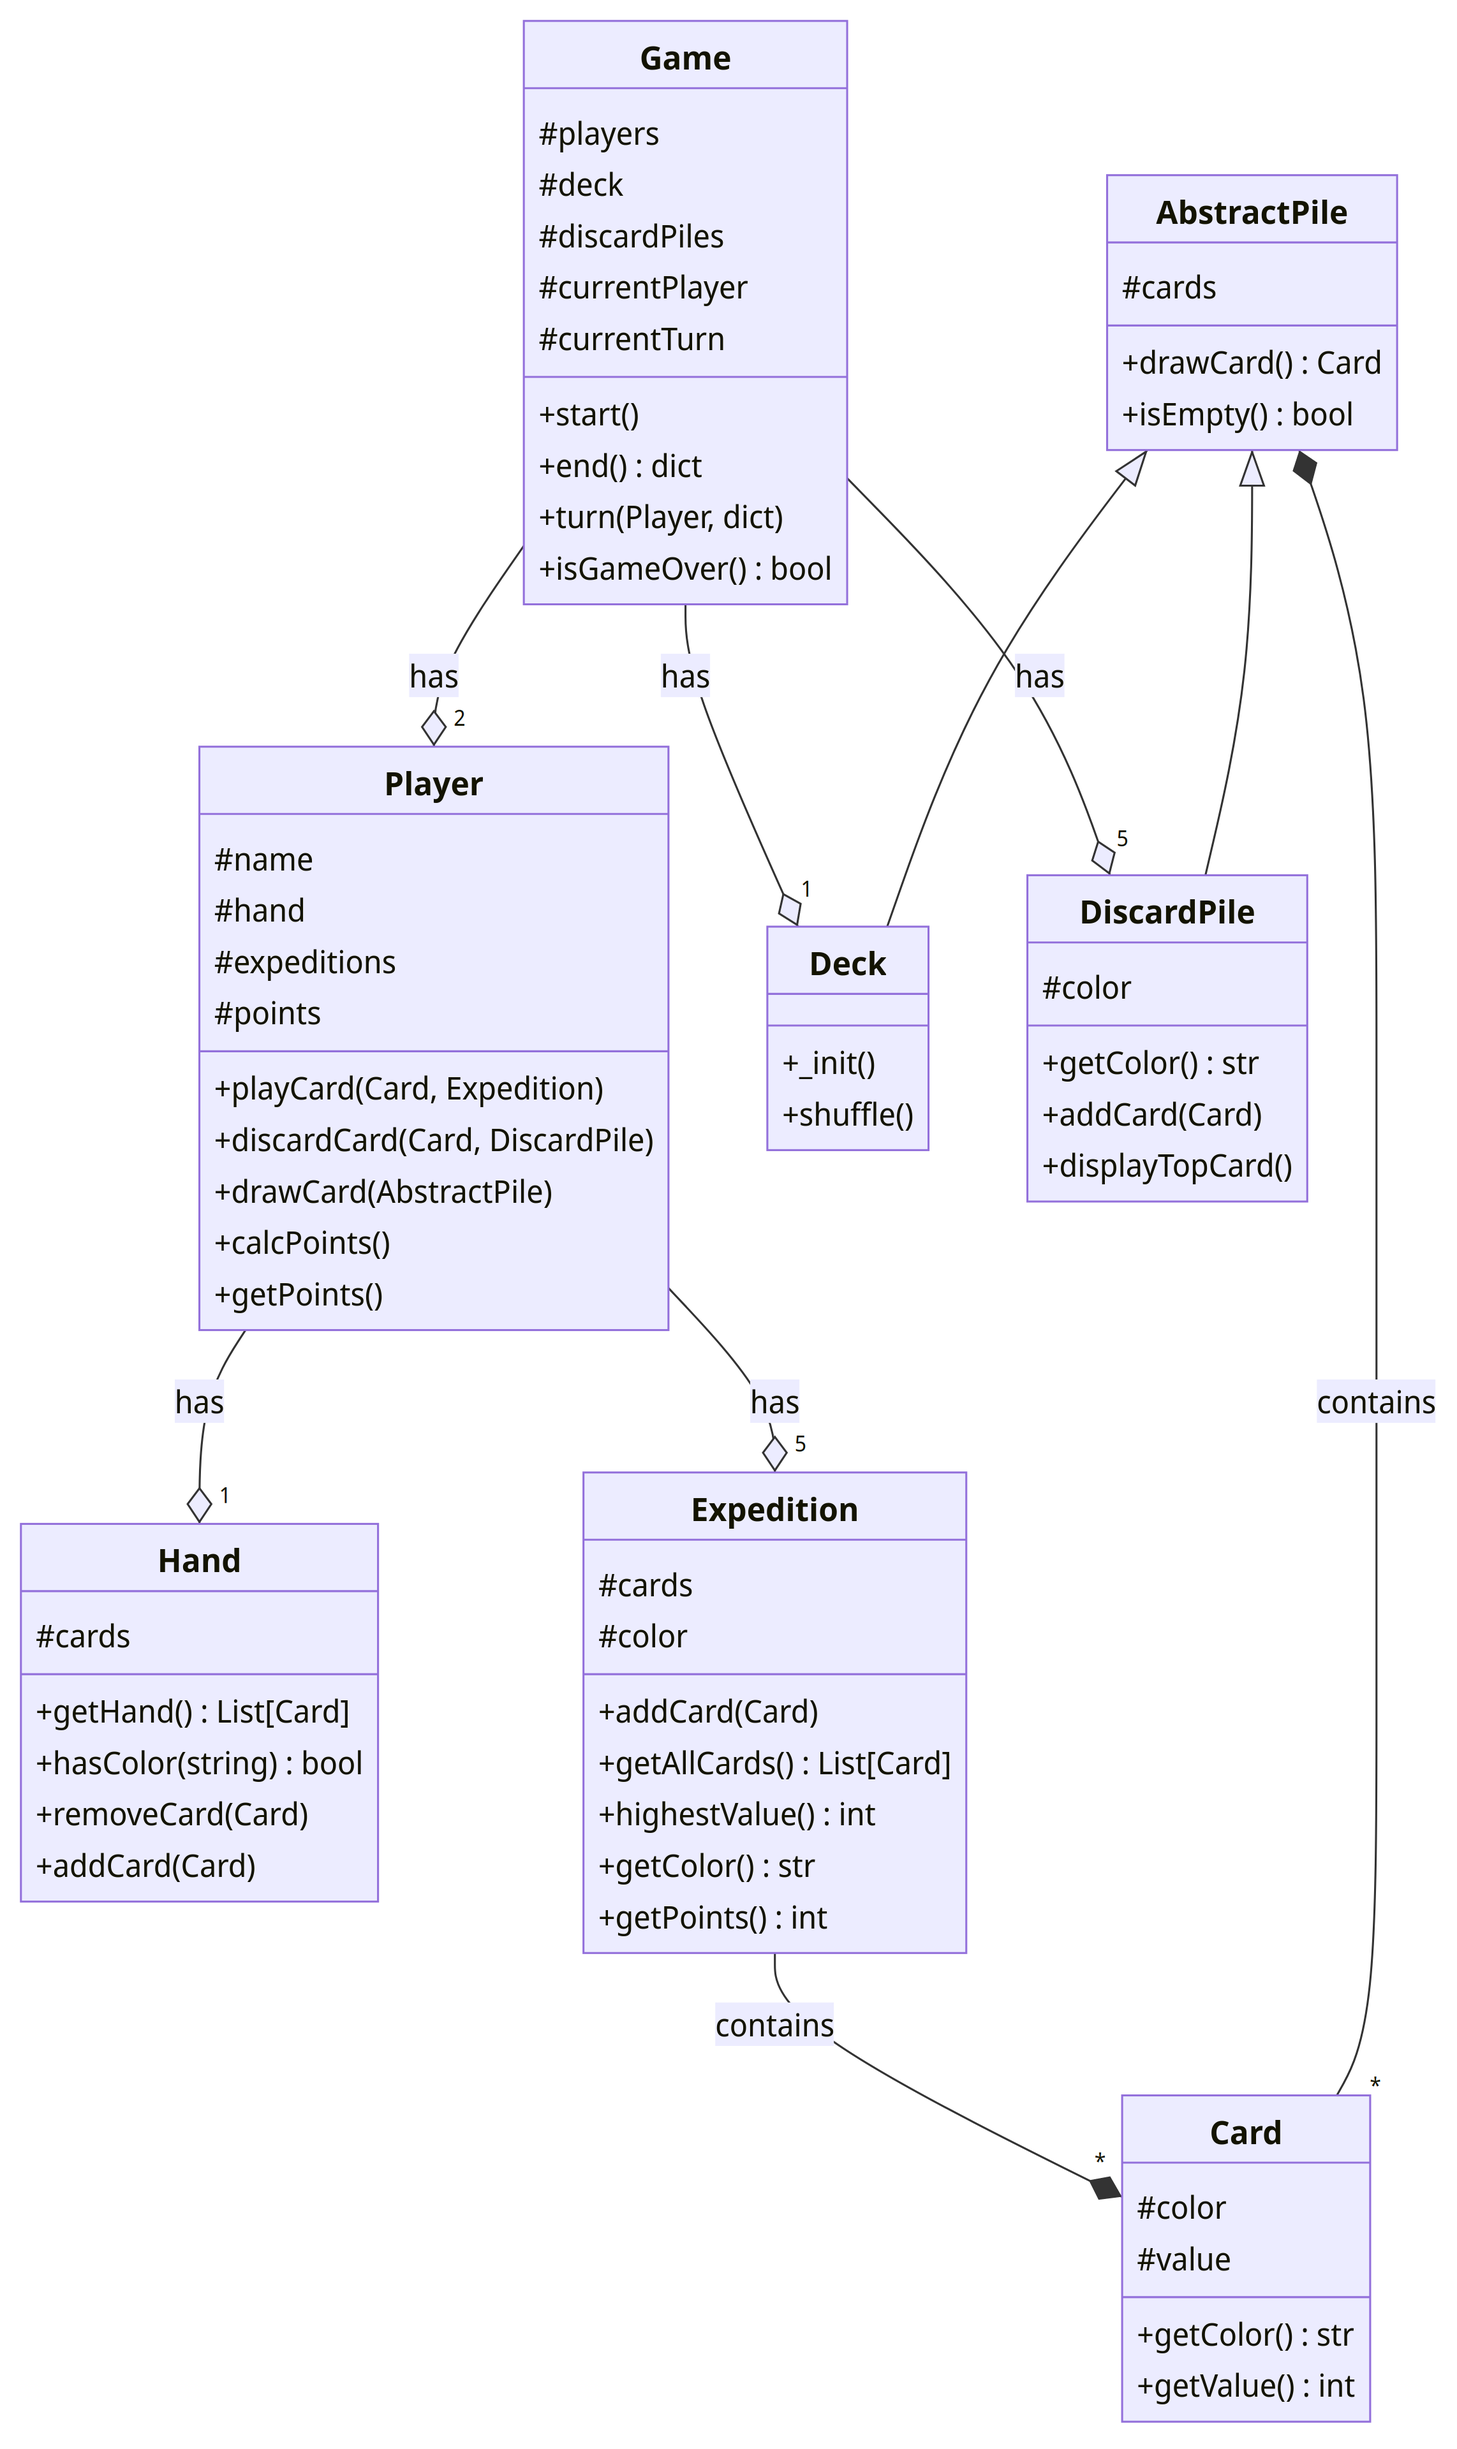
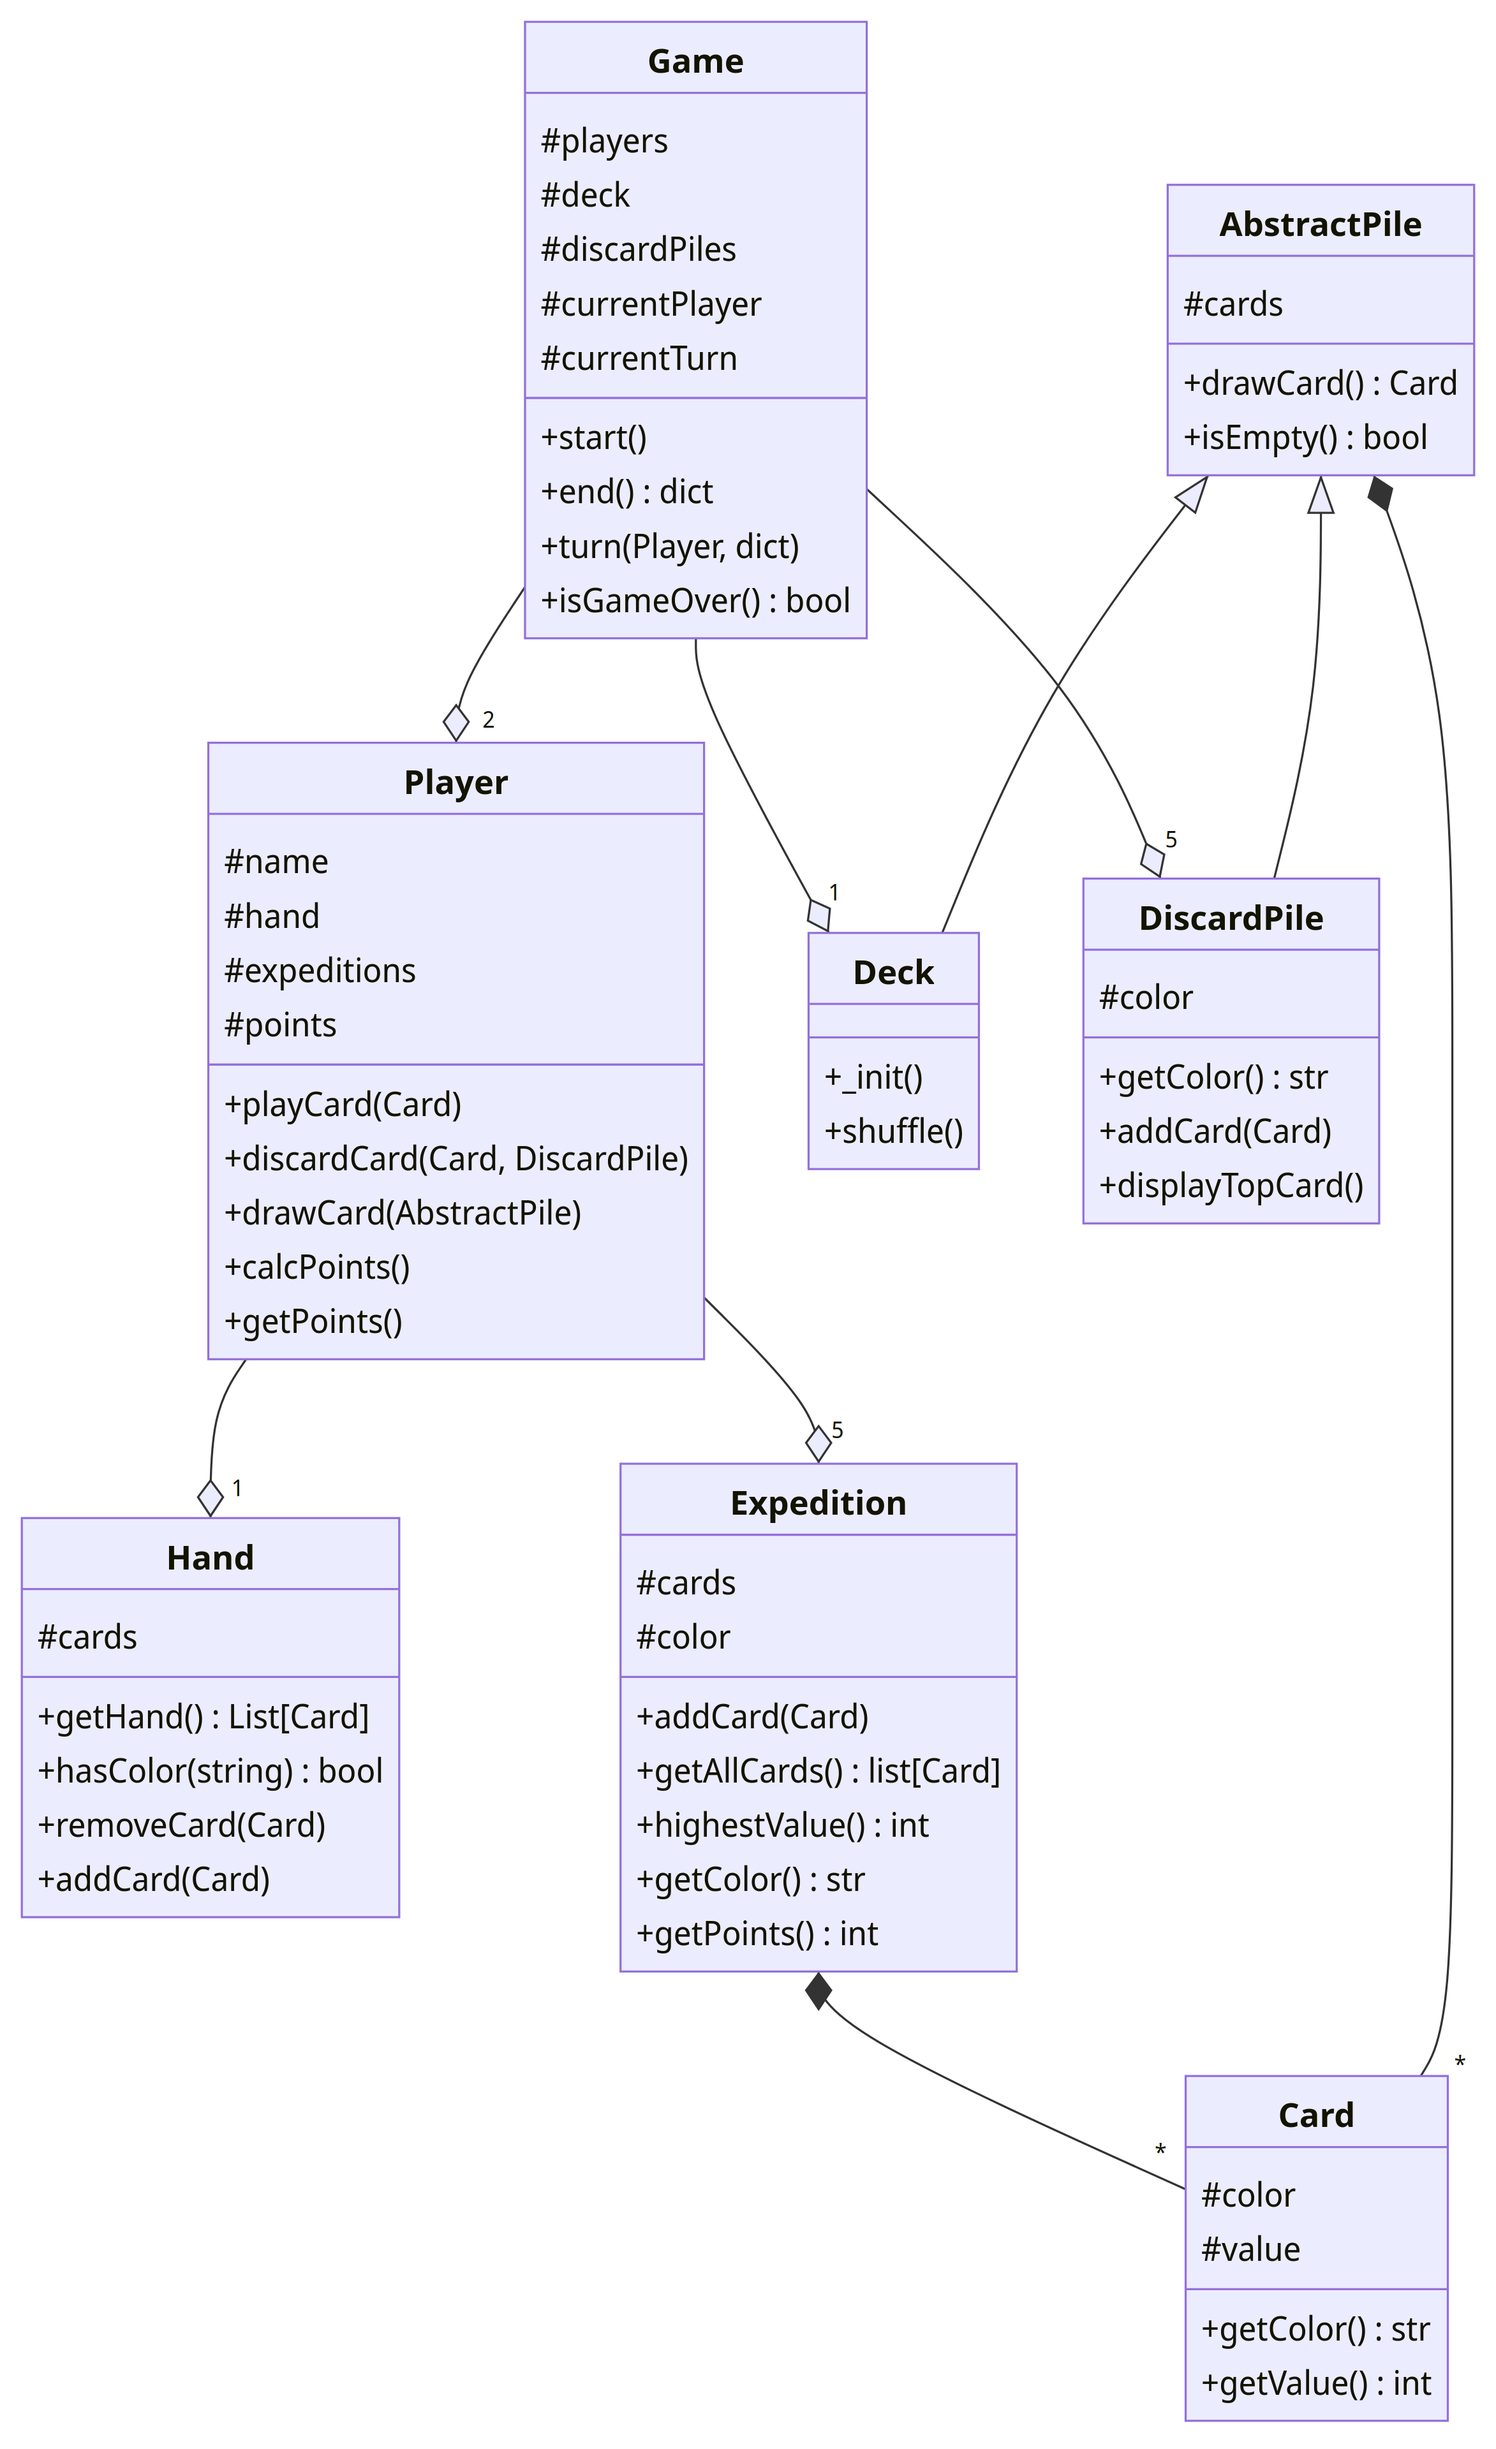
fix class diagram

diff --git a/docs/class_diagram/class_diagram.md b/docs/class_diagram/class_diagram.md
@@ -1,12 +1,12 @@
 ```mermaid
 classDiagram
-    Game --o "2" Player : has
-    Game --o "1" Deck : has
-    Game --o "5" DiscardPile : has
-    Player --o "1" Hand : has
-    Player --o "5" Expedition : has
-    Expedition --* "*" Card : contains
-    AbstractPile *-- "*" Card : contains
+    Game --o "2" Player
+    Game --o "1" Deck
+    Game --o "5" DiscardPile
+    Player --o "1" Hand
+    Player --o "5" Expedition
+    Expedition *-- "*" Card
+    AbstractPile *-- "*" Card
     AbstractPile <|-- Deck
     AbstractPile <|-- DiscardPile
     class Game{
@@ -25,7 +25,7 @@ classDiagram
       #hand
       #expeditions
       #points
-      +playCard(Card, Expedition)
+      +playCard(Card)
       +discardCard(Card, DiscardPile)
       +drawCard(AbstractPile)
       +calcPoints()
@@ -63,7 +63,7 @@ classDiagram
       #cards
       #color
       +addCard(Card)
-      +getAllCards() : List[Card]
+      +getAllCards() : list[Card]
       +highestValue() : int
       +getColor() : str
       +getPoints() : int
